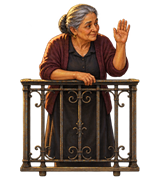
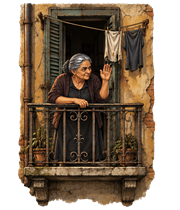
art: ground M01 civilians in a grittier borgata

diff --git a/docs/PRODUCTION_PIPELINE_V1.md b/docs/PRODUCTION_PIPELINE_V1.md
@@ -61,7 +61,7 @@ Il pilot M02 e descritto da `content-src/stages/stage1_zen/modules/M02.module.js
 
 La versione artistica M02 v1 approvata si trova in `art_source/stages/stage1_zen/M02/final_v1/`. E ricostruita deterministicamente dagli asset esistenti: skyline FAR color-matched, MAIN con finestra cielo alpha morbida e FOREGROUND trasparente/disattivato. Il manifest contiene gli SHA-256 di master, runtime e preview; `content:check` rileva file mancanti o modificati. M02 usa ora questi layer nel runtime a 2560x720, con camera 0-1280 e walk band 515-705. La fascia segue il piano pavimentato visibile e restituisce la profondità necessaria al combattimento; strutture verticali e futuri elementi ambientali devono restare fuori dal poligono dei piedi o dichiarare collisioni dedicate.
 
-Gli attori ambientali animati usano `kind: sprite_loop`. Ogni definizione dichiara frame, posizione, dimensione, pivot, durata di ciascun frame e parallasse. Il runtime precarica i PNG insieme allo stage, li anima su un piano dietro al combattimento e li rilascia al cambio di modulo. Il pilot M01 contiene `m01_signora_balcone` e `m01_venditore_frutta`; fonti, output e SHA-256 sono registrati in `art_source/ambient/stage1_zen/M01/v1/M01_AMBIENT_V1_MANIFEST.json`.
+Gli attori ambientali animati usano `kind: sprite_loop`. Ogni definizione dichiara frame, posizione, dimensione, pivot, durata di ciascun frame e parallasse. Il runtime precarica i PNG insieme allo stage, li anima su un piano dietro al combattimento e li rilascia al cambio di modulo. Il pilot M01 contiene `m01_signora_balcone` e `m01_venditore_frutta`; fonti, output e SHA-256 correnti sono registrati in `art_source/ambient/stage1_zen/M01/v2/M01_AMBIENT_V2_MANIFEST.json`. La direzione richiede degrado credibile da borgata popolare, espressioni guardinghe e un collegamento architettonico visibile per balconi e finestre.
 
 ## Definition of done
 

diff --git a/docs/STAGE1_DECEMBER_2026_PLAN.md b/docs/STAGE1_DECEMBER_2026_PLAN.md
@@ -46,6 +46,6 @@ Gate finale: lo Stage 1 e completabile, presentabile e reinstallabile su una sec
 
 - M01-M04: fasce WALK sottoposte ad audit visivo e corrette.
 - M01-M04: primo attore ambientale procedurale, stormi di uccelli, integrato e configurato per modulo.
-- M01: signora al balcone e venditore di frutta integrati come cicli sprite non interattivi, precaricati con il modulo.
+- M01: signora ancorata a un modulo architettonico completo e venditore con bancarella deteriorata integrati come cicli sprite non interattivi. Direzione visiva corretta verso una borgata più sporca, dura e vissuta.
 - Sistema di audit: overlay dei layer reali, poligono WALK e sagome in scala disponibile in `tools/audit-stage-walk-bands.py`.
 - Prossimo incremento: prova visiva completa di M01 e, dopo il gate, riuso del contratto `sprite_loop` per bambini che giocano nel campetto M03.
